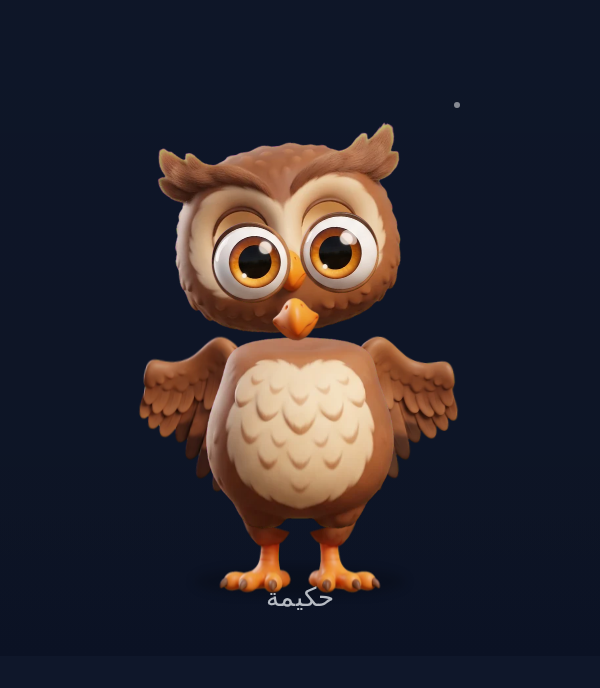
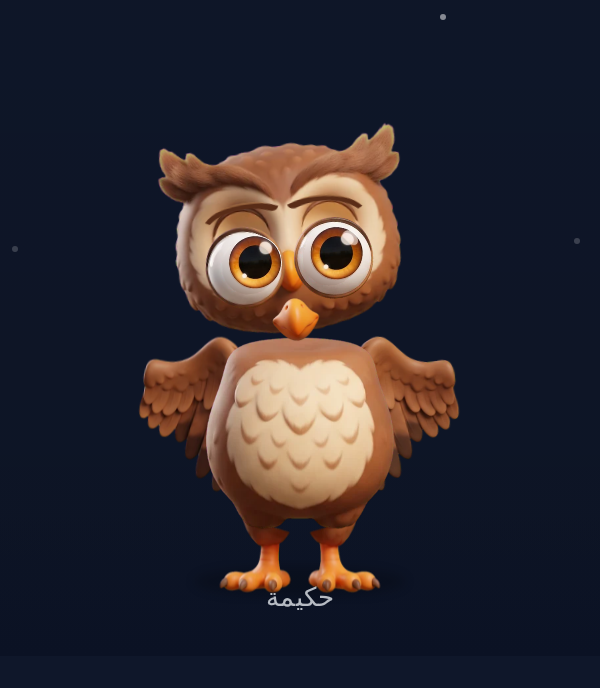
docs(progress): K9.2b-2 done (brows behind flag, zero regression proven); next K9.2b-3

diff --git a/genspark_ai_developer/PROGRESS.md b/genspark_ai_developer/PROGRESS.md
@@ -970,3 +970,4 @@ Decision required first: turtle name (owl is already «حكيمة»): rename the
 - 2026-09-26 resume-check #33 (after sandbox reset): branch sandbox/a1-gate5-art-sw at 50d3783 == origin, clean tree; origin/main 120ce1a; app/ diff vs main = 0; protected files untouched. Last recorded point = FROZEN PLAN K9.2b-1..6. Reality check: no sandbox/tools/slice_parts.py, no samples/proofs/g11b_slice_diff.json, parts dir still 9 webp + parts.json -> K9.2b-1 not started (record and reality agree, nothing to redo). Executing K9.2b-1 now (iris circle-fit extraction, L/R slices, parts.json + owl_p2.svg update, recomposite pixel_diff proof at DPR1/DPR2).
 - 2026-09-26 K9.2b-1 DONE (commits 85daafc tool, 02df388 slices, db81180 + 96c2267 proofs): sandbox/tools/slice_parts.py (deterministic, idempotent; reruns produce byte-identical outputs). Facts: transparent gap cols 161-174 (eyes) / cut col 168; iris circle fit (Kasa LSQ + residual outlier rejection, tol 2 px): L centre (87.11, 82.96) r 50.29 rms 0.36 px, R centre (246.98, 82.94) r 50.39 rms 0.38 px; disc cut at r+2.5 px (measured anti-aliased rim: sat 0.19 at r+1, 0.12 at r+2, sclera 0.09); white plates get a smooth sclera inpaint (band mean r+3..r+7 at 720 angles, circular gaussian 12 deg, quadratic radial blend). New parts (lossless webp): eyesL 21006 B, eyesR 20626, pupilL 10548, pupilR 10542, lidsL 21558, lidsR 21564 (active total 190046 B vs 113220 before; lossless is the price of pixel_diff = 0, disclosed in the json). owl_p2.svg: eyeL/eyeR = white + pupil child, lidL/lidR = own plate, pivots at each iris centre (81.29, 85.19) / (118.27, 85.19), image rects reproduce the original xMidYMid-meet rect exactly, preserveAspectRatio none. Proof samples/proofs/g11b_slice_diff.json: plate recomposite eyes+lids max_abs_diff 0 / 0 px; rendered orig-vs-new (Playwright, lids forced visible, 3 renders per doc, per-pixel median) DPR1 0/192000 px, DPR2 0/768000 px; raw pairs and same-doc controls listed unfiltered (DPR1 shows an intermittent 46-px one-column flicker at css x=97 = wingL, also orig-vs-orig -> renderer noise, never inside the eye region). Live check: 0 console errors, __specCheck ok, pupils translate over intact white (g11b_live_neutral_look_puzzled.png), lids scaleY per eye. Regression: proofs.py exit 0 (G3/G4/G5/G7 pass, 3 runs), sw g5-7 precaches new parts. NEXT: K9.2b-2 vector brows behind flag (?brows=0 / spec.acting.brows).
 - 2026-09-26 resume-check #34 (after sandbox reset): branch sandbox/a1-gate5-art-sw at ec91bd4 == origin, clean; origin/main 120ce1a; app/ diff 0. Record says K9.2b-1 DONE -> reality: slice_parts.py, g11b_slice_diff.json, 6 sliced webp present; no brow joint/flag anywhere -> K9.2b-2 not started, agrees. Gist a402871d: latest revision still b5d111c1 (19:40Z), no new directive. Executing K9.2b-2 (vector brows behind flag) - measure head plate first, no guessing.
+- 2026-09-26 K9.2b-2 DONE (dcbc6ec feature, 103071d proof): vector brows. Inputs measured, not guessed: eye centres from K9.2b-1 circle fit, eye disc top 65.8 u, head.webp brow band colours (p10 lum rgb 89,44,23 body; p40-60 rgb 186,132,84 highlight at 0.55), mirror axis 99.78. SVG: <g data-feature="brows" style="display:none"> with data-joint browL/browR (2 <path> each, pivots (81.29,64.2)/(118.27,64.2)). Flag = URL ?brows=0 AND spec.acting.brows === true (both required to show); poses.js eyes lead-group includes brows; validatePoses knows browL/browR; every pose got rot/y brow channels (asymmetric for puzzled/oops). Proof samples/proofs/g11b_brows_flag.json (brows_proof.py): A flag off vs pre-brow SVG 55934bc -> DPR1 0 px, DPR2 0 px (3 renders/doc median, raw pairs 0, computed display none); B flag on -> 1216 px differ, 100 pct inside brow band (55-67 u), 0 console errors, specCheck ok, browL/browR transforms change on apply('puzzled'); C spec gate false -> hidden. Stars removed inside the proof because they are Math.random positioned. Regression: pose_sheet.py ok (brows visible in all 6 poses), sw g5-8. NEXT: K9.2b-3 beak readability (measure beak share vs cartoon refs, propose mouth.scale) + docs/ART_INVENTORY.md.
